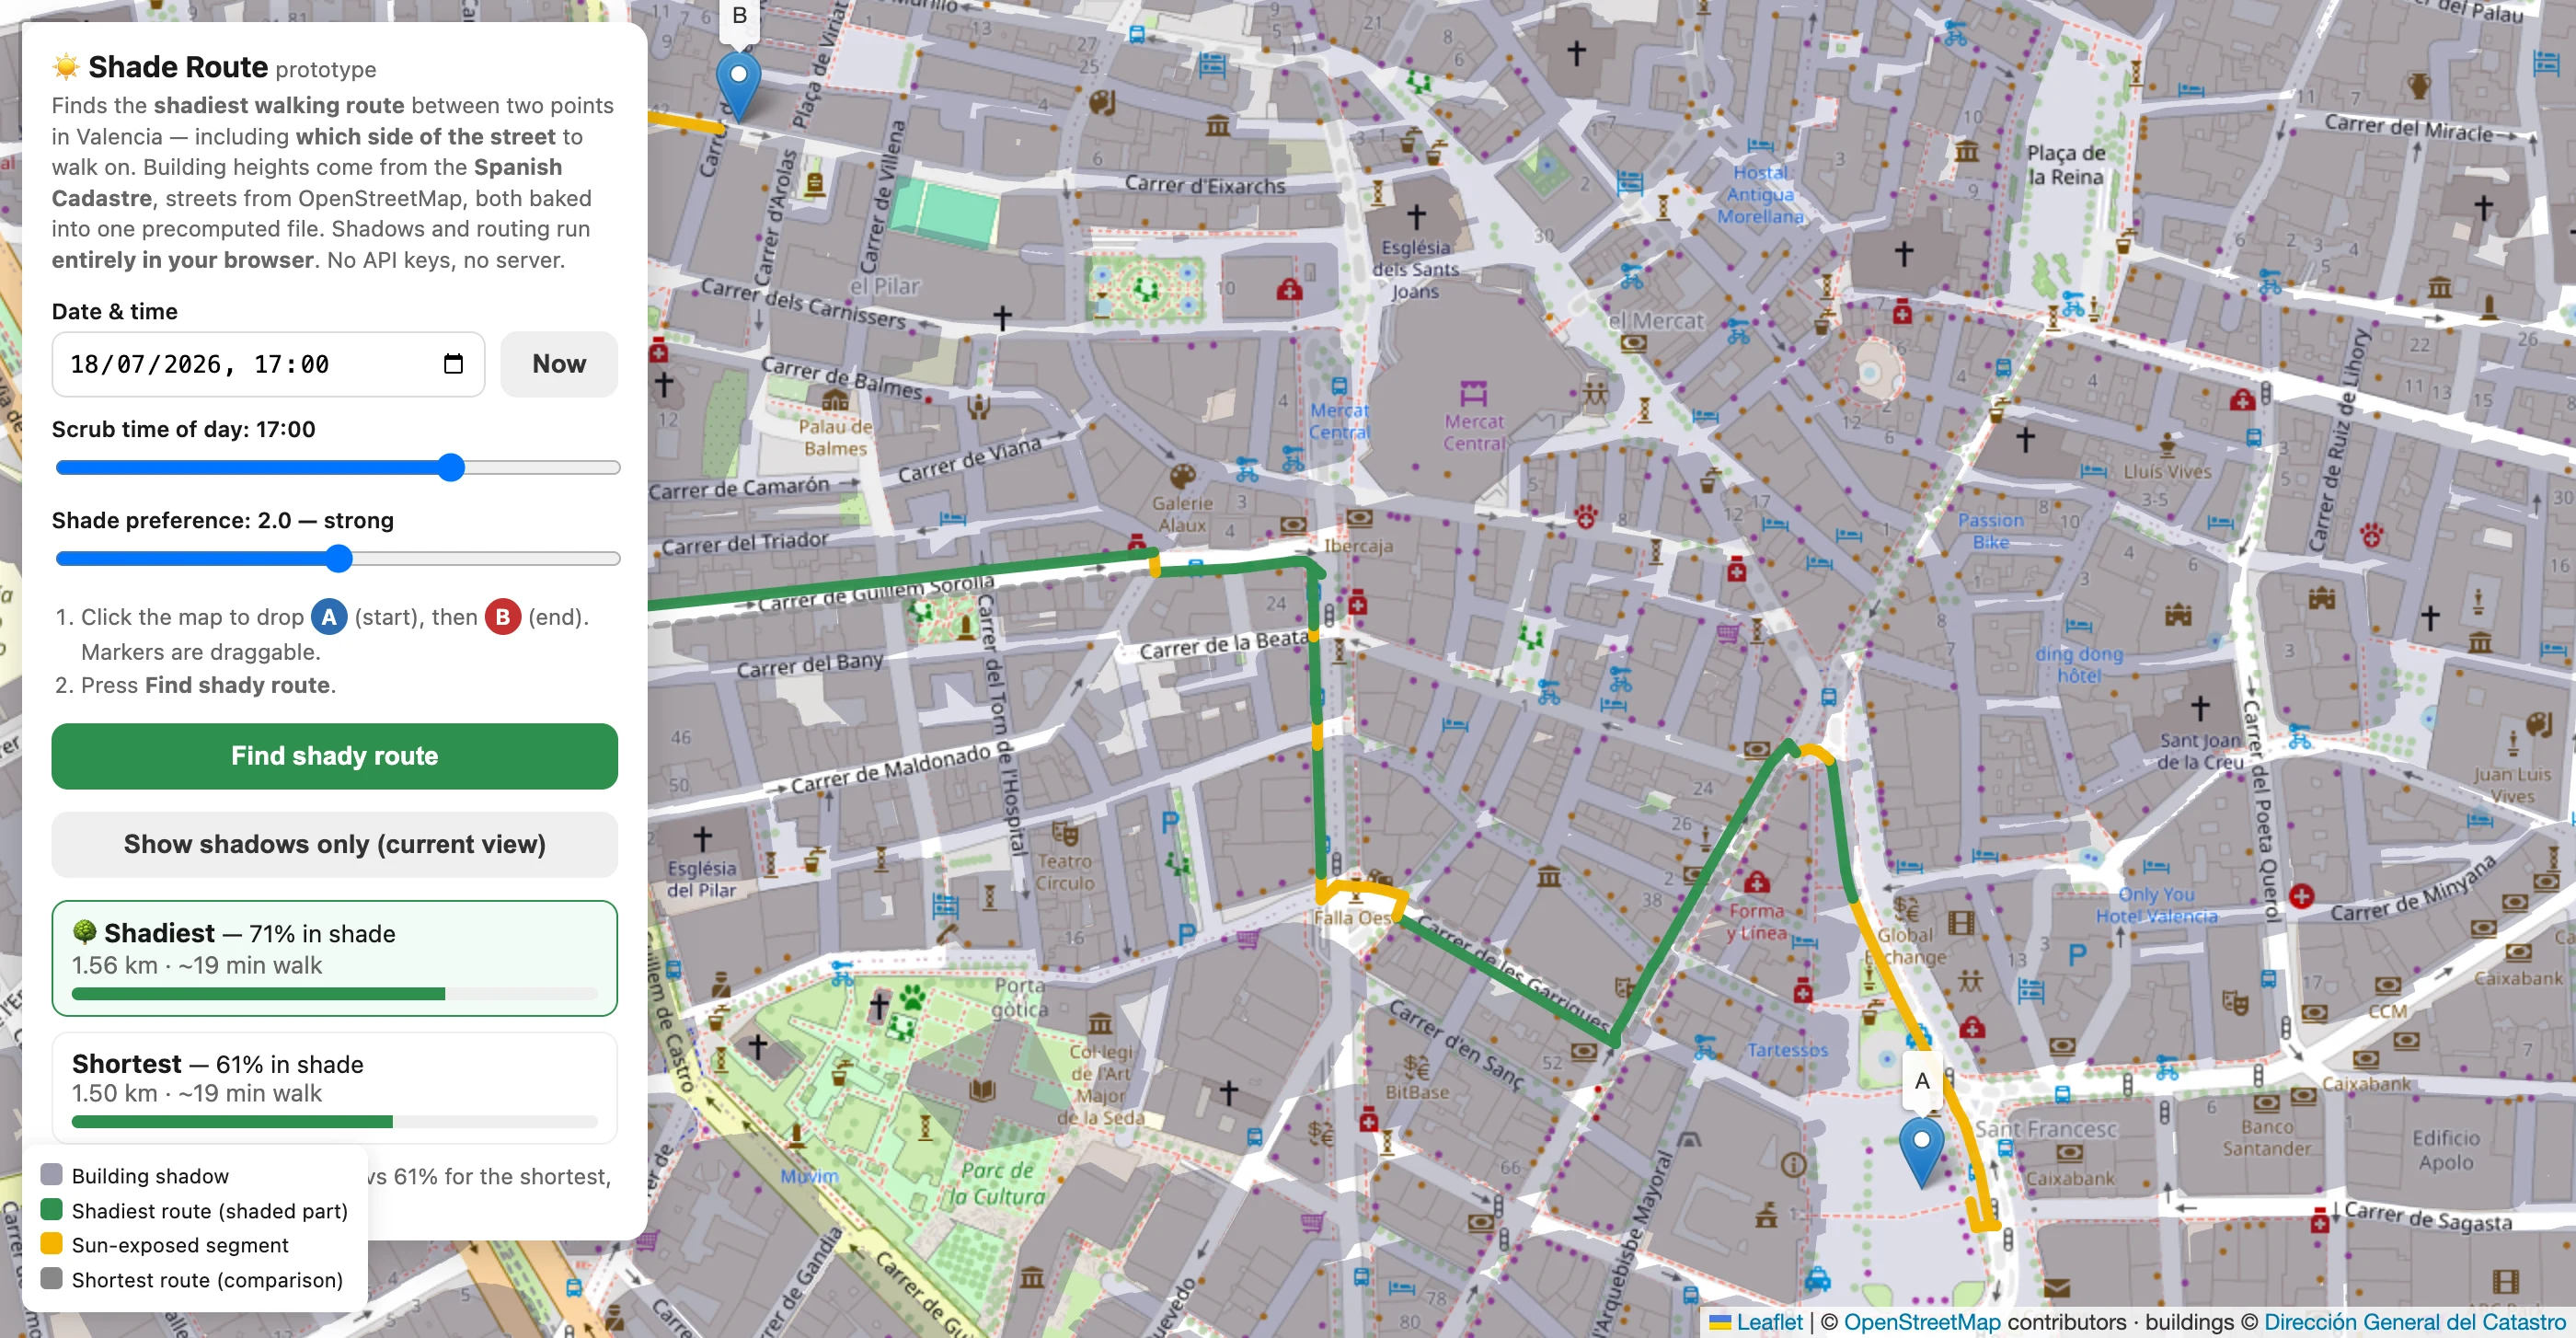
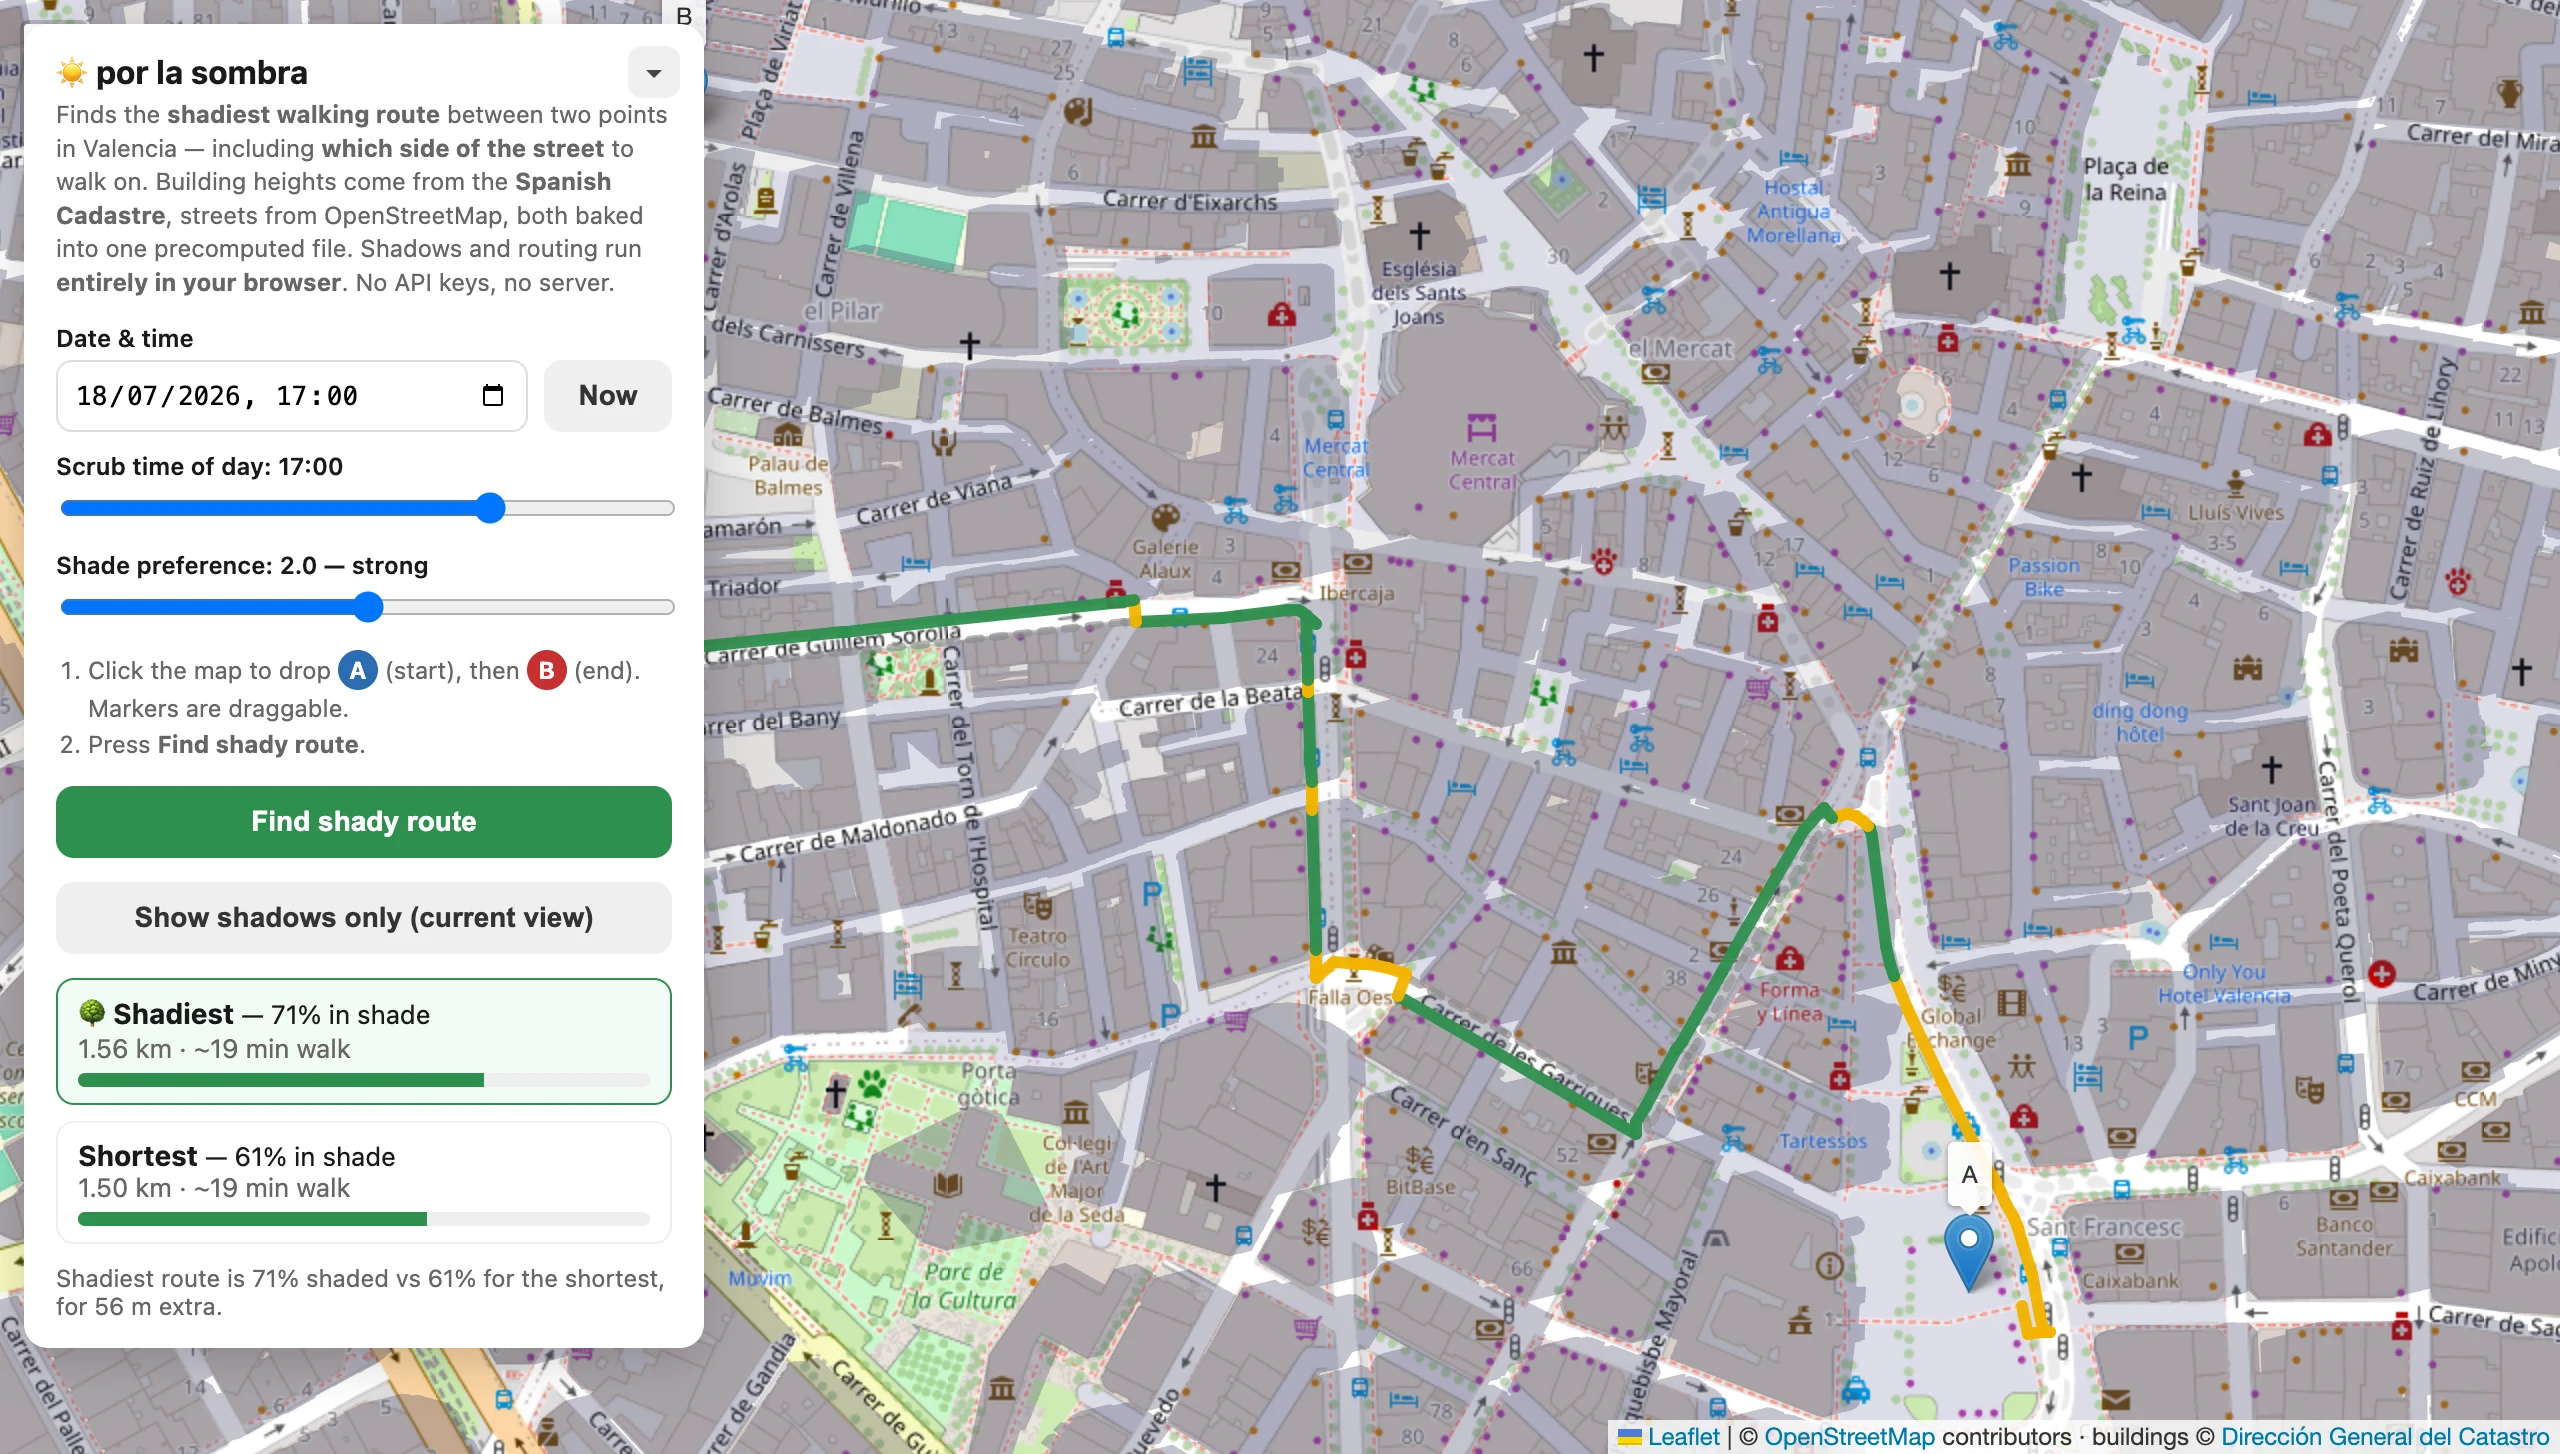
Make the panel collapsible and drop the legend
The panel covered the whole screen on a phone, which made the map — the
thing you actually came for — invisible.

- Tapping the header collapses it. The header carries the route summary
  ("71% in shade · 1.56 km · ~19 min"), so a collapsed panel still answers
  the question while leaving the map visible.
- On phones it starts collapsed, spans the full width anchored to the
  bottom where the thumb is, and auto-collapses once a route is found.
- The whole header is the tap target, not just the 26 px chevron.
- Attribution is lifted clear of the collapsed bar and measured rather than
  guessed, since the bar grows a line taller once it carries a summary —
  the OSM and Catastro licences want it visible.

Legend removed; the map reads fine without it.

diff --git a/index.html b/index.html
@@ -15,6 +15,23 @@
     background: var(--panel); border-radius: 12px; box-shadow: 0 6px 24px rgba(0,0,0,.18);
     padding: 14px 16px; max-height: calc(100vh - 24px); overflow-y: auto;
   }
+
+  /* Collapsing. The header stays put and carries the summary, so a collapsed panel still tells
+     you the answer while leaving the map visible — which is the whole point on a phone. */
+  .head { display: flex; align-items: flex-start; gap: 8px; cursor: pointer; }
+  .head h1 { flex: 1; }
+  .chevron {
+    flex: 0 0 auto; width: 26px; height: 26px; margin: -3px -4px 0 0; padding: 0;
+    border: none; border-radius: 7px; background: #f0f0f0; color: #444;
+    font-size: 13px; line-height: 26px; text-align: center; cursor: pointer; transition: transform .18s;
+  }
+  #panel.collapsed .chevron { transform: rotate(-90deg); }
+  #panel.collapsed #body { display: none; }
+  #panel.collapsed { padding-bottom: 12px; }
+  /* Once a route exists the collapsed header shows its shade figure. */
+  #summary { display: none; font-size: 12px; color: var(--muted); margin-top: 4px; line-height: 1.4; }
+  #panel.collapsed #summary.has-route { display: block; }
+
   h1 { font-size: 16px; margin: 0 0 2px; }
   .sub { font-size: 12px; color: var(--muted); margin: 0 0 12px; line-height: 1.4; }
   label { font-size: 12px; font-weight: 600; display: block; margin: 10px 0 4px; }
@@ -38,15 +55,31 @@
   .bar { height:7px; border-radius:4px; background:#eee; margin-top:5px; overflow:hidden; }
   .bar > i { display:block; height:100%; background:var(--accent); }
   #status { font-size:12px; color: var(--muted); margin-top:10px; min-height: 16px; }
-  .legend { position:absolute; z-index:1000; bottom:14px; left:12px; background:#fff; padding:8px 10px; border-radius:8px; font-size:11px; box-shadow:0 3px 12px rgba(0,0,0,.15); line-height:1.7; }
-  .swatch { display:inline-block; width:12px; height:12px; border-radius:3px; vertical-align:-1px; margin-right:5px; }
+
+  /* Phones: full width, anchored to the bottom so the controls sit under the thumb and the
+     collapsed panel is a slim bar rather than a sheet covering the map. */
+  @media (max-width: 640px) {
+    #panel {
+      top: auto; bottom: 8px; left: 8px; right: 8px; width: auto; max-width: none;
+      max-height: 70vh; border-radius: 14px;
+    }
+    .sub { display: none; }        /* the pitch is for desktop; on a phone it is just in the way */
+    .steps { display: none; }
+  }
 </style>
 </head>
 <body>
 <div id="map"></div>
 
 <div id="panel">
-  <h1>☀️ Shade Route <span style="font-weight:400;font-size:12px;color:var(--muted)">prototype</span></h1>
+  <div class="head" id="head">
+    <div style="flex:1">
+      <h1>☀️ por la sombra</h1>
+      <div id="summary"></div>
+    </div>
+    <button class="chevron" id="toggle" aria-label="Collapse panel" aria-expanded="true">▾</button>
+  </div>
+  <div id="body">
   <p class="sub">Finds the <b>shadiest walking route</b> between two points in Valencia — including <b>which side of the street</b> to walk on. Building heights come from the <b>Spanish Cadastre</b>, streets from OpenStreetMap, both baked into one precomputed file. Shadows and routing run <b>entirely in your browser</b>. No API keys, no server.</p>
 
   <label for="dt">Date & time</label>
@@ -71,13 +104,7 @@
 
   <div id="results"></div>
   <div id="status"></div>
-</div>
-
-<div class="legend">
-  <div><span class="swatch" style="background:#3b3b5c;opacity:.5"></span>Building shadow</div>
-  <div><span class="swatch" style="background:#2f8f4e"></span>Shadiest route (shaded part)</div>
-  <div><span class="swatch" style="background:#f4b400"></span>Sun-exposed segment</div>
-  <div><span class="swatch" style="background:#888"></span>Shortest route (comparison)</div>
+  </div><!-- /#body -->
 </div>
 
 <script src="https://unpkg.com/leaflet@1.9.4/dist/leaflet.js"></script>
@@ -706,6 +733,14 @@ async function findRoute() {
     document.getElementById("results").innerHTML =
       card("🌳 Shadiest", shady, true) + (same ? "" : card("Shortest", shortest, false));
 
+    // Carry the answer into the header, then get out of the way on a phone — you asked for a
+    // route because you want to look at the map, not at the form that produced it.
+    summaryEl.textContent =
+      `${Math.round(shady.shadePct*100)}% in shade · ${(shady.length/1000).toFixed(2)} km · ~${Math.round(shady.length/1.35/60)} min`;
+    summaryEl.classList.add("has-route");
+    if (isPhone()) setCollapsed(true);
+    layoutAttribution();   // the summary line makes the collapsed bar a line taller
+
     map.fitBounds(routeLayer.getBounds(), { padding: [40,40] });
     drawShadows(sun);
     const extra = Math.round(shady.length - shortest.length);
@@ -733,6 +768,37 @@ async function showShadowsOnly() {
   } catch (e) { setStatus("⚠️ " + e.message); }
   finally { setBusy(false); }
 }
+
+// ---------- Panel ----------
+const panel = document.getElementById("panel");
+const summaryEl = document.getElementById("summary");
+const toggleBtn = document.getElementById("toggle");
+const isPhone = () => window.matchMedia("(max-width: 640px)").matches;
+
+// On a phone the panel sits over the bottom-right attribution. Licence terms require that stay
+// visible, so lift it clear of the collapsed bar — measured, not guessed, since the bar grows a
+// line taller once it carries a route summary.
+function layoutAttribution() {
+  const el = document.querySelector(".leaflet-bottom.leaflet-right");
+  if (!el) return;
+  const collapsed = panel.classList.contains("collapsed");
+  el.style.bottom = (isPhone() && collapsed)
+    ? Math.round(panel.getBoundingClientRect().height) + 14 + "px"
+    : "";
+}
+
+function setCollapsed(on) {
+  panel.classList.toggle("collapsed", on);
+  toggleBtn.setAttribute("aria-expanded", String(!on));
+  toggleBtn.setAttribute("aria-label", on ? "Expand panel" : "Collapse panel");
+  layoutAttribution();
+}
+window.addEventListener("resize", layoutAttribution);
+// The whole header is the hit target — a 26 px chevron is a poor one on a phone.
+document.getElementById("head").onclick = () => setCollapsed(!panel.classList.contains("collapsed"));
+
+// Start collapsed on a phone: the map is the thing worth seeing first.
+if (isPhone()) setCollapsed(true);
 
 // ---------- UI plumbing ----------
 function setStatus(t) { document.getElementById("status").textContent = t; }